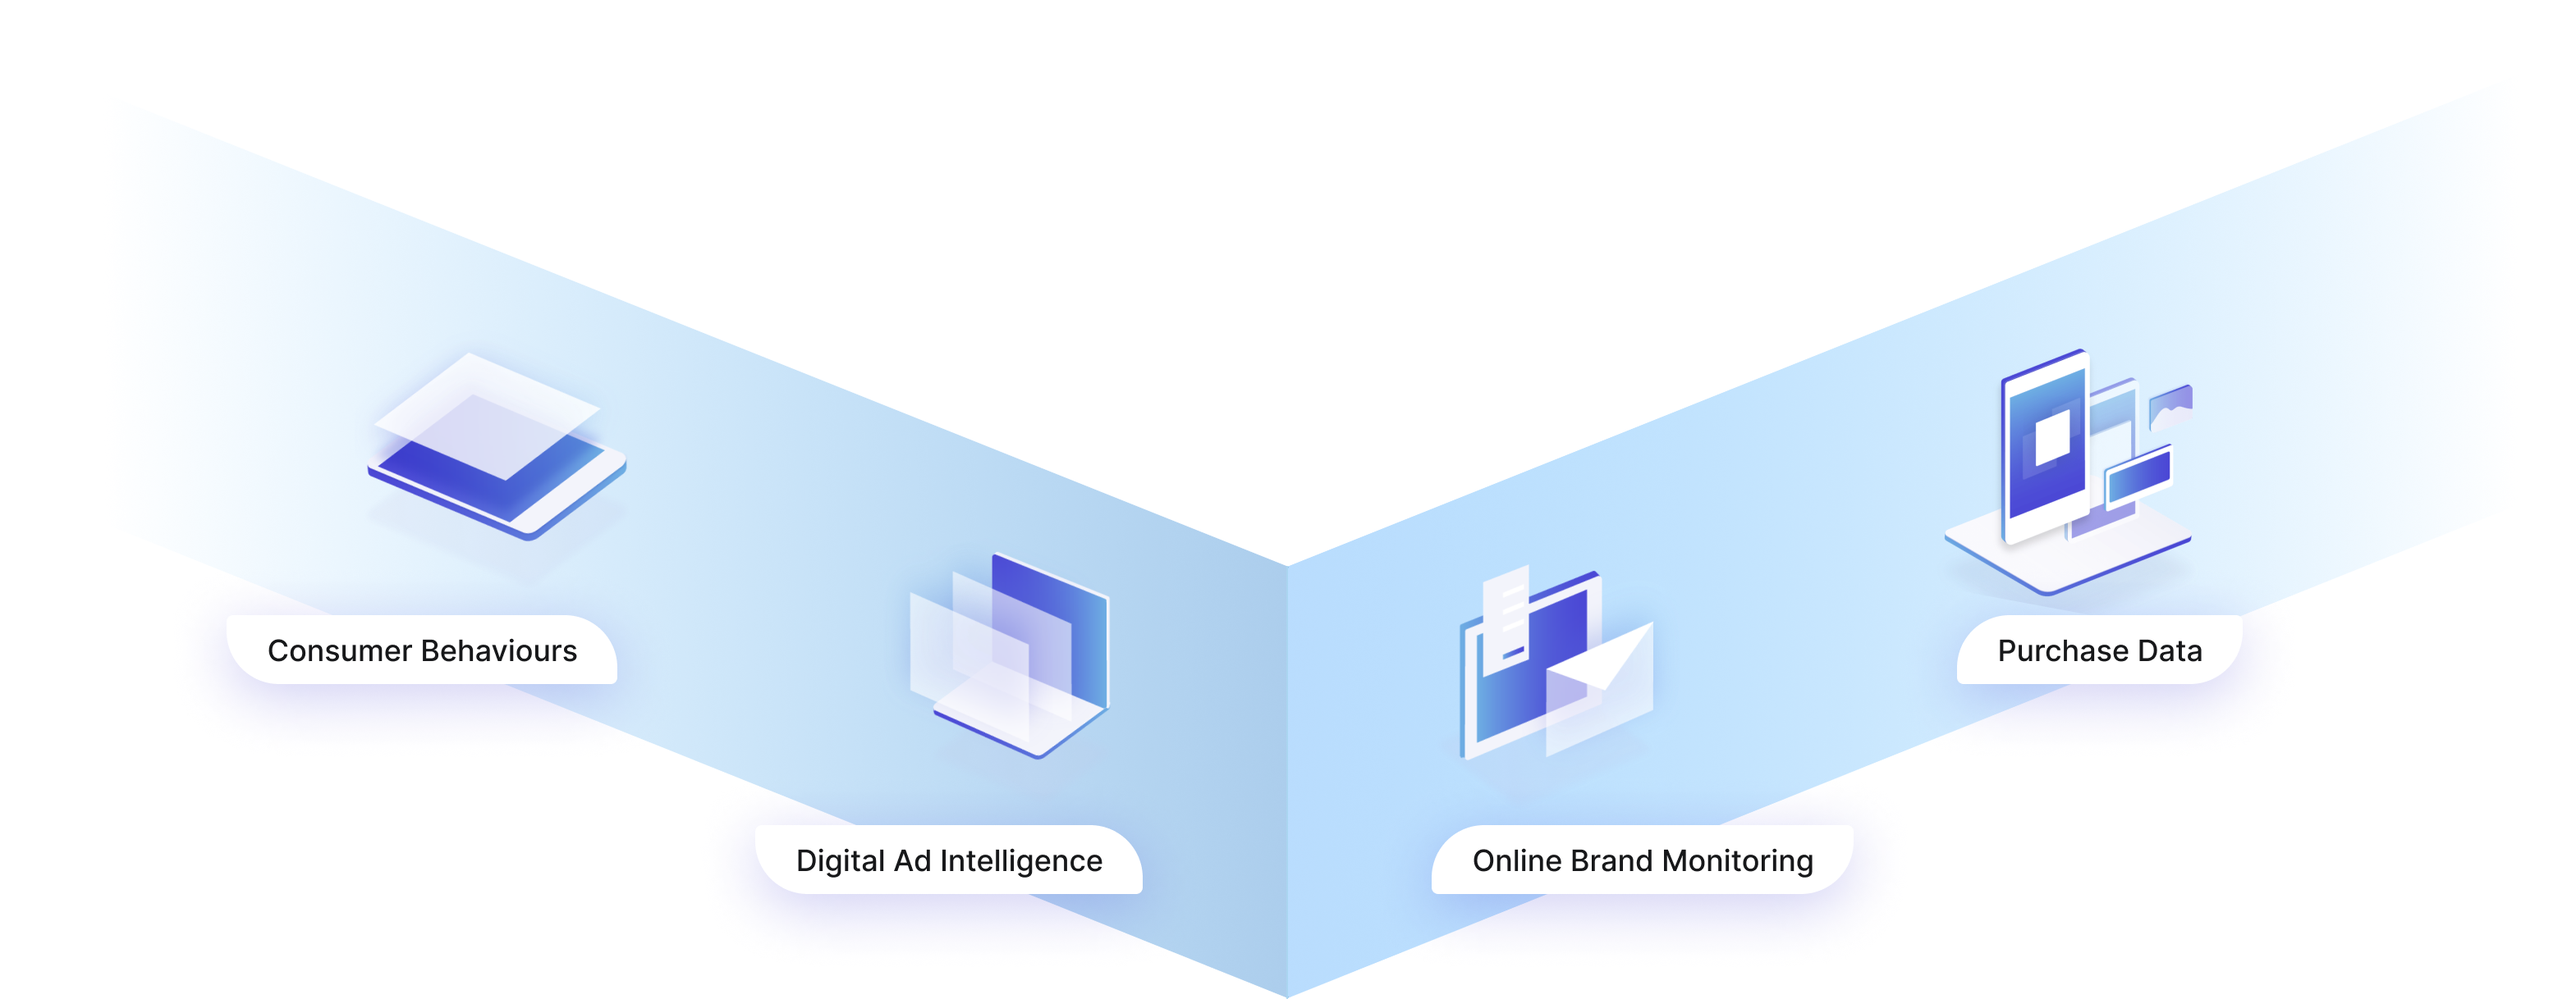
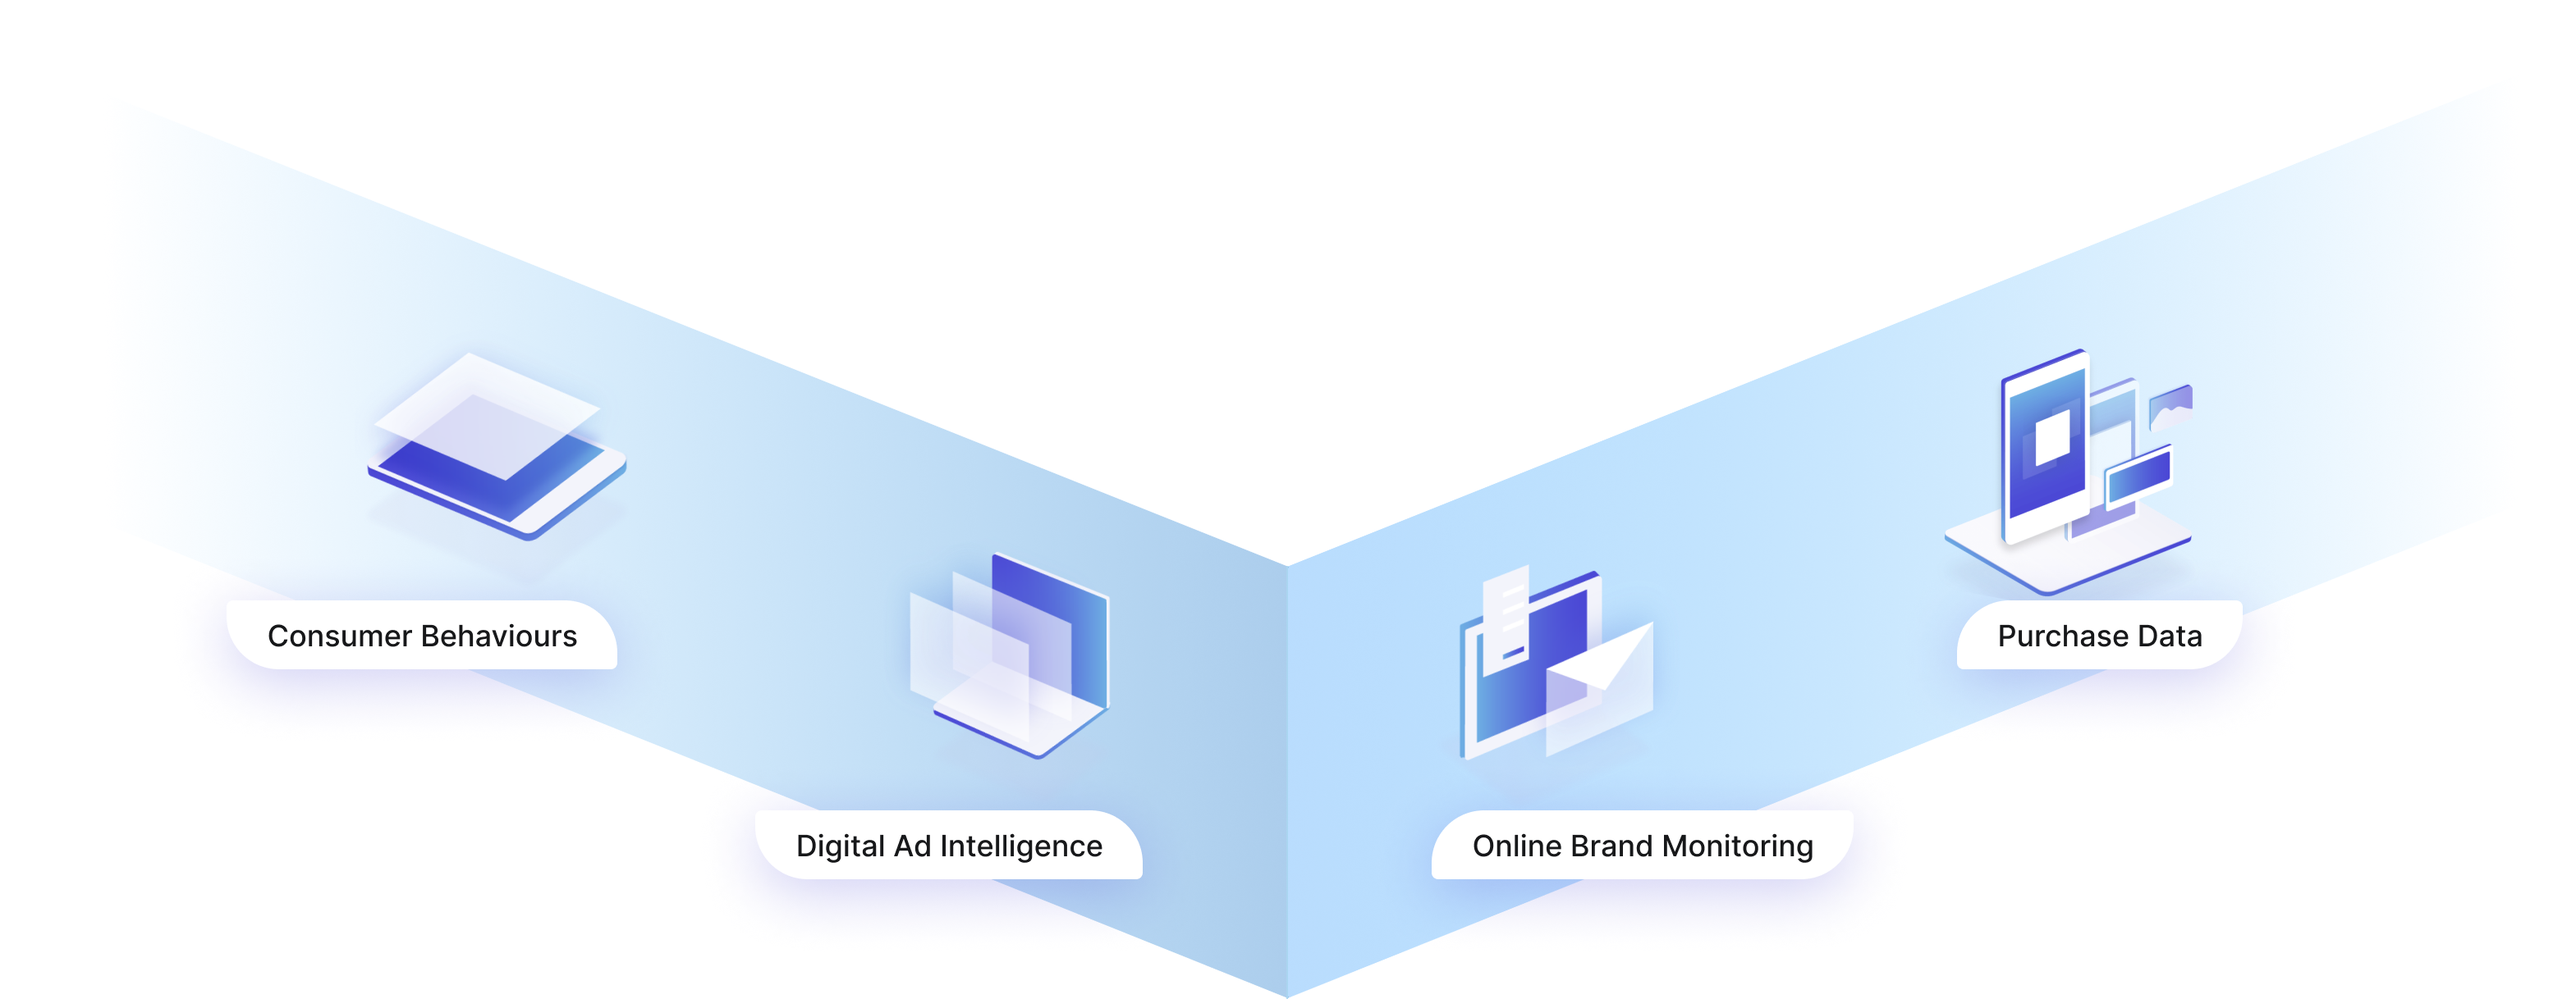
a

diff --git a/demos/bsc-hero/index.html b/demos/bsc-hero/index.html
@@ -17,7 +17,7 @@
                 <h1>Digital Intelligence at Scale</h1>
                 <h2>Millions measured daily. Billions of online transactions.</h2>
                 <p>Don’t settle for outdated research technology when you can tap on the most complete view<br>of the digital consumer. BIScience sets a new bar and provides the deepest digital intelligence<br>to market research companies, brands, publishers, retailers, and investment professionals</p>
-                <img src="images/alt2.png" style="margin-top: -30vh; z-index: 100; position: relative;" width="100%">
+                <img src="images/alt3.png" style="margin-top: -20vh; z-index: 100; position: relative;" width="100%">
 
                 <!--Next particle-->
                 <img id="map" src="images/bg.png" data-particle-gap="5" data-mouse-force="-30" class="next-particle">
